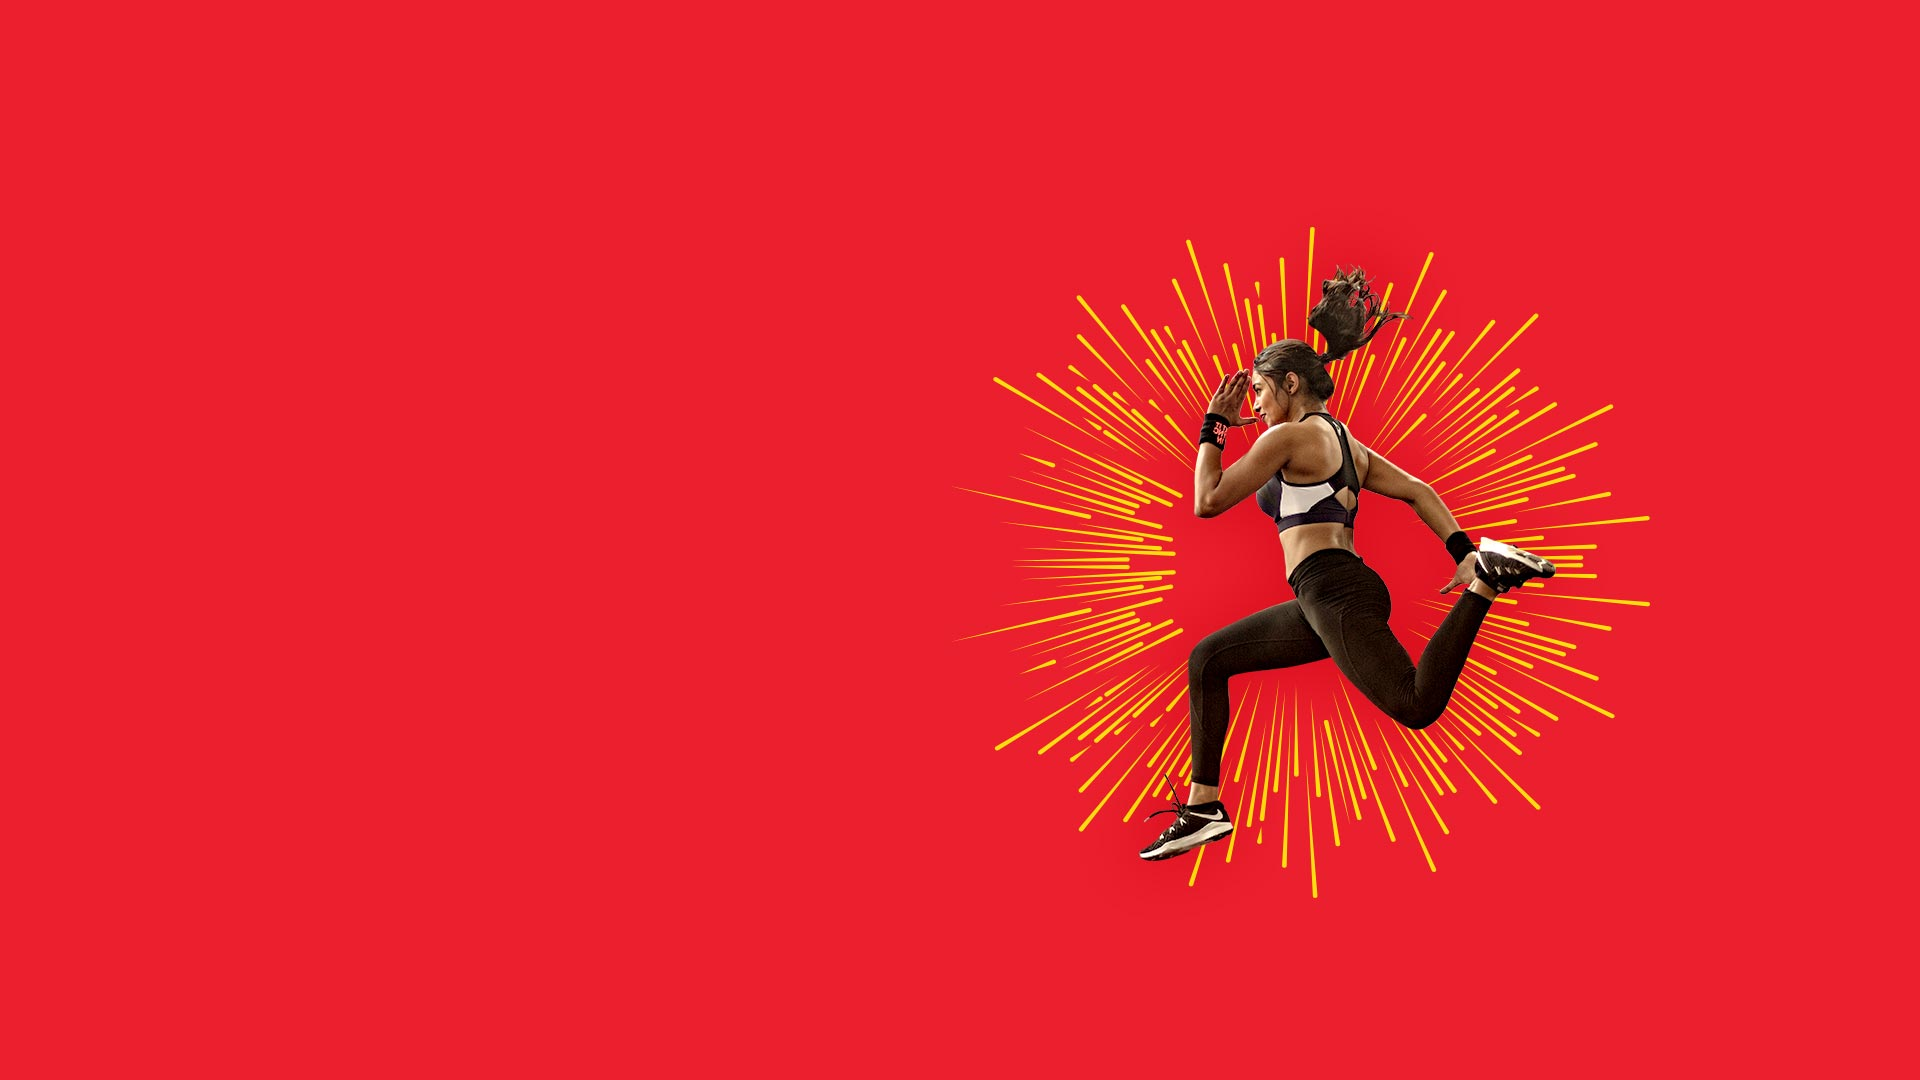
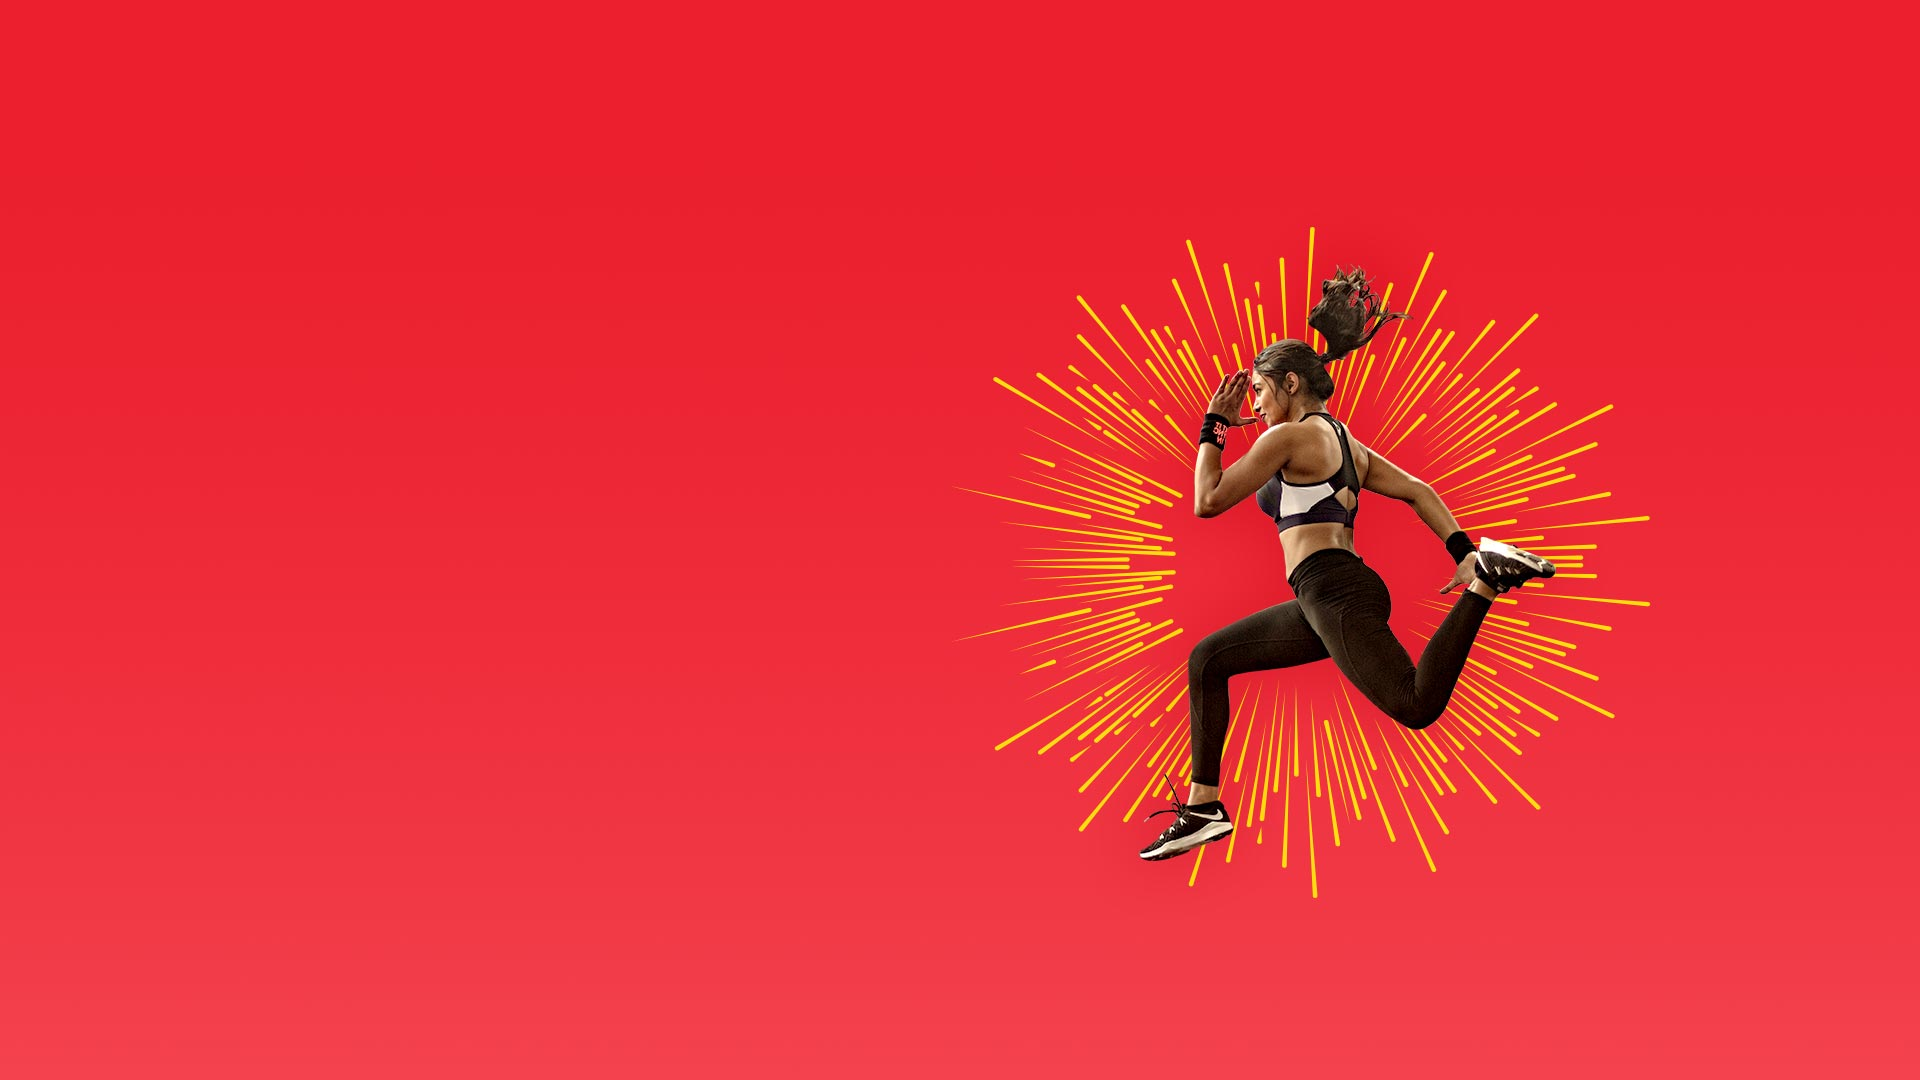
design updates

Changed region(s): [[0.0, 0.7333, 1.0, 1.0]]

diff --git a/src/css/offer.css b/src/css/offer.css
@@ -41,7 +41,7 @@ p, small {
 .offers-page-hero {
   /* margin-top: -100px; */
   padding-top: 170px;
-  padding-bottom: 220px;
+  padding-bottom: 170px;
   background-position: center;
   background-size: cover;
   background-repeat: no-repeat;
@@ -94,10 +94,16 @@ p, small {
 .countdown-timer {
   padding-top: 45px;
 }
-
+/* 
 @media (min-width: 1440px) {
   .offers-page-hero {
     padding-bottom: 350px;
+  }
+} */
+
+@media (max-width: 979px) {
+  .offers-page-hero h1 {
+    font-size: 3em;
   }
 }
 
@@ -109,15 +115,23 @@ p, small {
   .offers-page-hero h1 {
     font-size: 2.75em;
   }
+
+  .offers-page-hero--prop__top-right {
+    display: none;
+  }
+  
+  .offers-page-hero--prop__bottom-left {
+    display: none;
+  }
 }
 
 @media (max-width: 480px) {
   .offers-page-hero {
     min-height: 100vh;
-    padding-top: 120px;
+    padding-top: 70px;
     padding-left: 5%;
     padding-right: 5%;
-    background-size: 100%;
+    background-size: cover;
   }
 
   .offers-page-hero h1 {
@@ -192,7 +206,7 @@ p, small {
 @media (max-width: 767px) {
   .offers-page-intro {
     padding: 100px 2%;
-    padding-top: 0;
+    /* padding-top: 0; */
     margin-top: 0px;
     text-align: center;
   }
@@ -423,15 +437,23 @@ p.move-down-icon-animate {
   font-size: 16px;
   text-align: left;
   padding-top: 100px;
+  color: #ffffff;
+  filter: opacity(0.75);
 }
 
 .down-arrow {
-  margin-right: 10px;
+  margin-right: 7px;
   vertical-align: middle;
   animation-name: animatearrow;
   animation-duration: 0.5s;
   animation-direction: alternate;
   animation-iteration-count: infinite;
+}
+
+@media (max-width: 767px) {
+  p.move-down-icon-animate {
+    display: none;
+  }
 }
 
 @keyframes animatearrow {

diff --git a/src/pages/index.js b/src/pages/index.js
@@ -66,10 +66,10 @@ class OffersPage extends React.Component {
                   <h1>#BeAPataakha</h1>
                   <div className="line"></div>
                   <p>Get <span className="yellow">100% Cashback</span><br />On All Fitato Passes</p>
-                  {/* <p className="move-down-icon-animate">
+                  <p className="move-down-icon-animate">
                     <img src={withPrefix('/static/icons/arrow-down.svg')} width="25" className="down-arrow"/>
                     Scroll down for the exclusive FITFEST offer
-                  </p> */}
+                  </p>
                 </div>
               </div>
               <img src={withPrefix('/static/top-right.png')} alt="" className="offers-page-hero--prop__top-right"/>
@@ -77,7 +77,7 @@ class OffersPage extends React.Component {
             </div>
 
             <style dangerouslySetInnerHTML={{
-              __html: `.offers-page-hero {background-image: url('${withPrefix('/static/web-landing-page.jpg')}');}@media only screen and (max-width: 767px) {.offers-page-hero {background-image: url('${withPrefix('/static/hero-bg-small.jpg')}');}}`
+              __html: `.offers-page-hero {background-image: url('${withPrefix('/static/web-landing-page.jpg')}');}@media only screen and (max-width: 767px) {.offers-page-hero {background-image: url('${withPrefix('/static/web-landing-page-mobile.jpg')}');}}`
             }}/>
 
             {/* <img src={withPrefix('/static/tri.svg')} className="tri-svg" alt="fitato dussehra offer"/> */}
